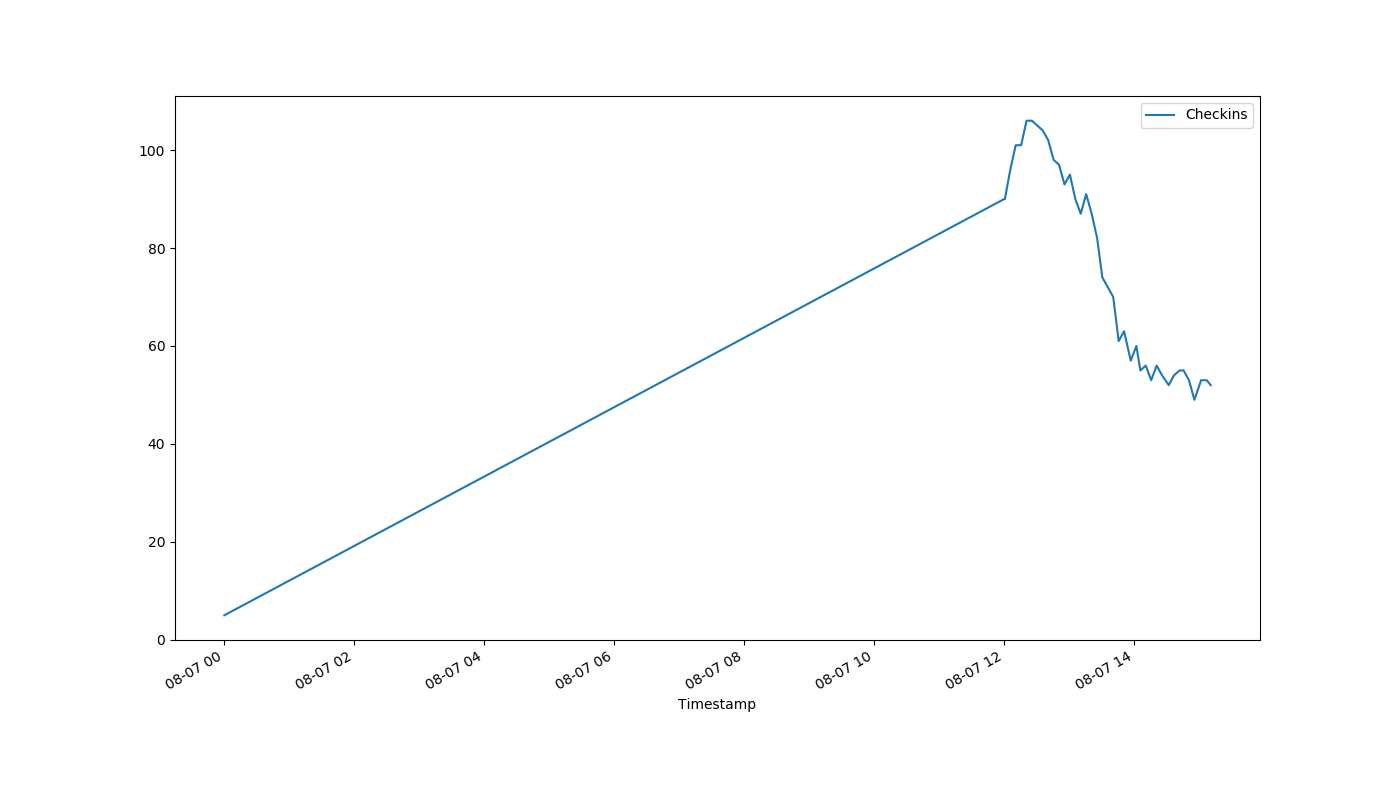
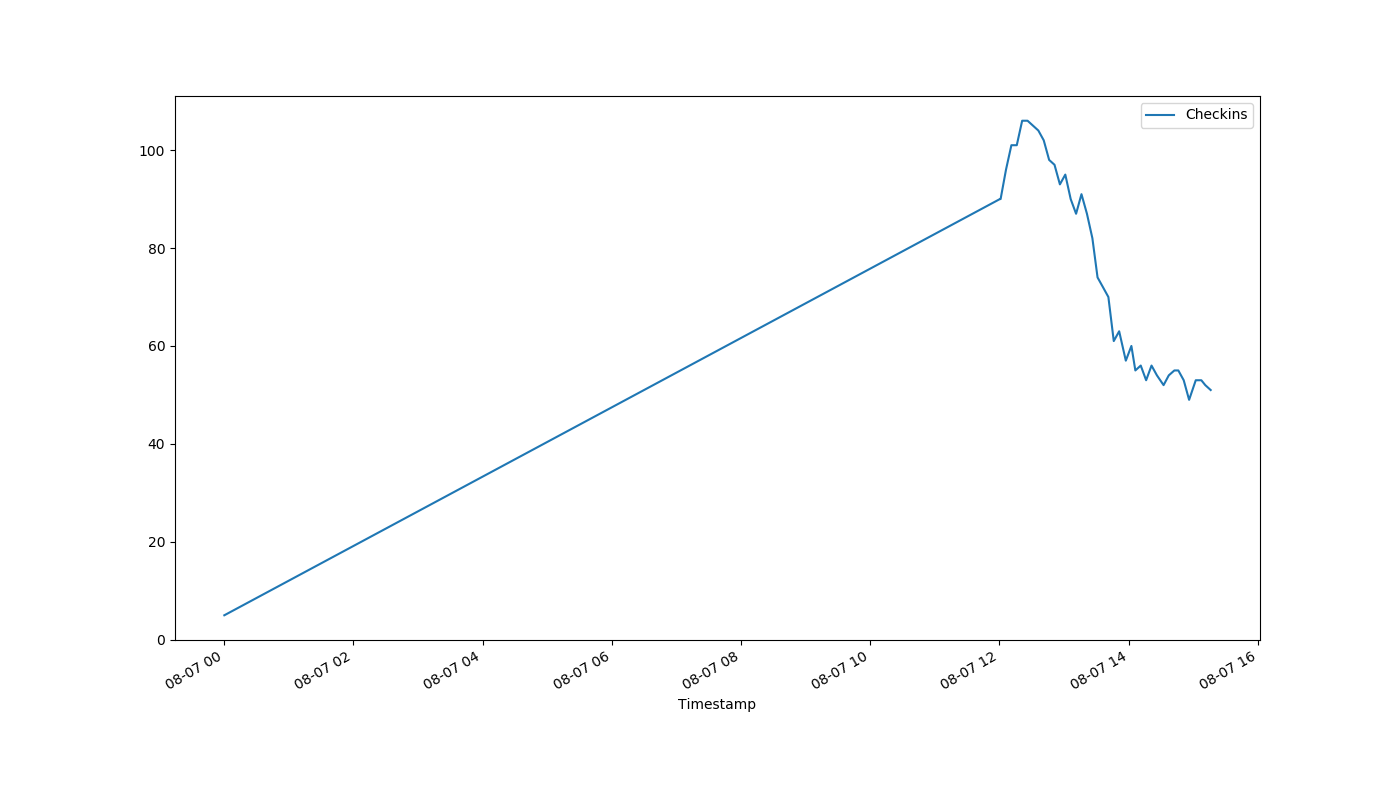
auto-Aug-07-15:17:26

diff --git a/index.html b/index.html
@@ -1,1 +1,1 @@
-<!DOCTYPE html><html><head><meta http-equiv="refresh" content="30"><link rel='stylesheet' href='holmcurrent.css'></head><body><p id='count'>52</p><div id='graph-wrap'><img id='graph' src='holmgraph-Aug-07.png'></div><p id='updated'>Last updated 15:11:17 / 15:11:04</p></body></html>
+<!DOCTYPE html><html><head><meta http-equiv="refresh" content="30"><link rel='stylesheet' href='holmcurrent.css'></head><body><p id='count'>51</p><div id='graph-wrap'><img id='graph' src='holmgraph-Aug-07.png'></div><p id='updated'>Last updated 15:16:17 / 15:16:04</p></body></html>
